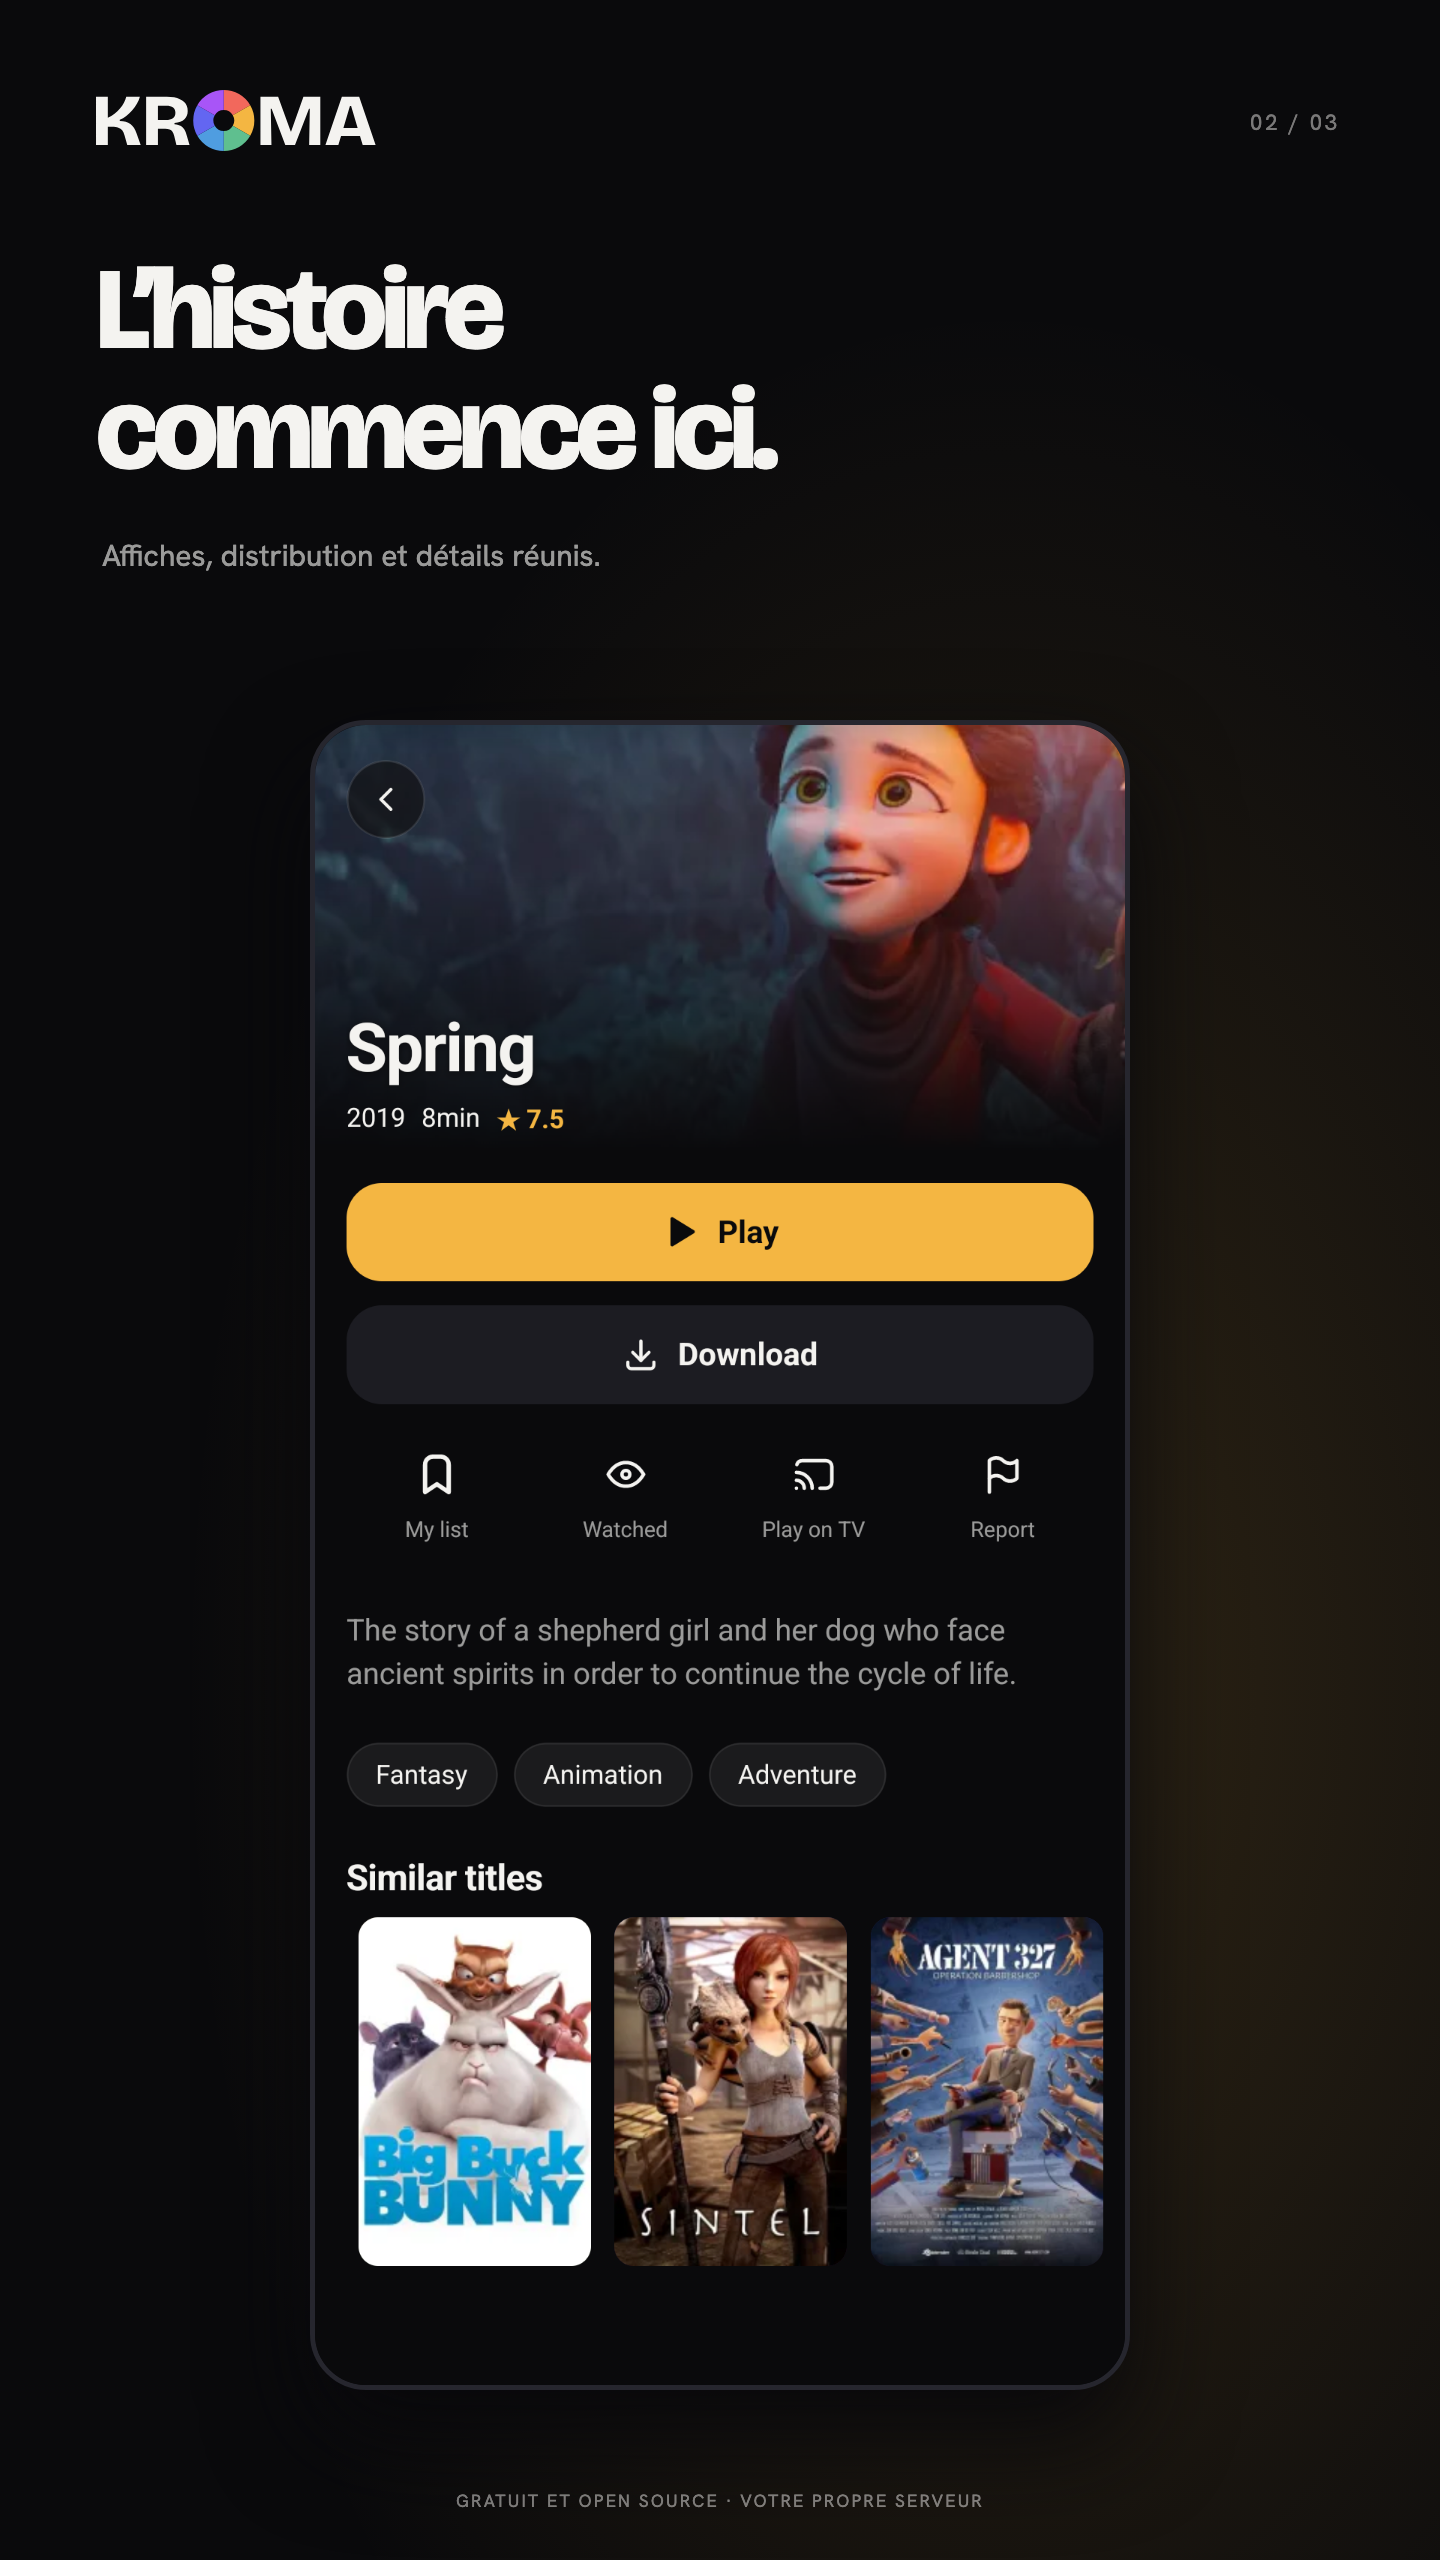
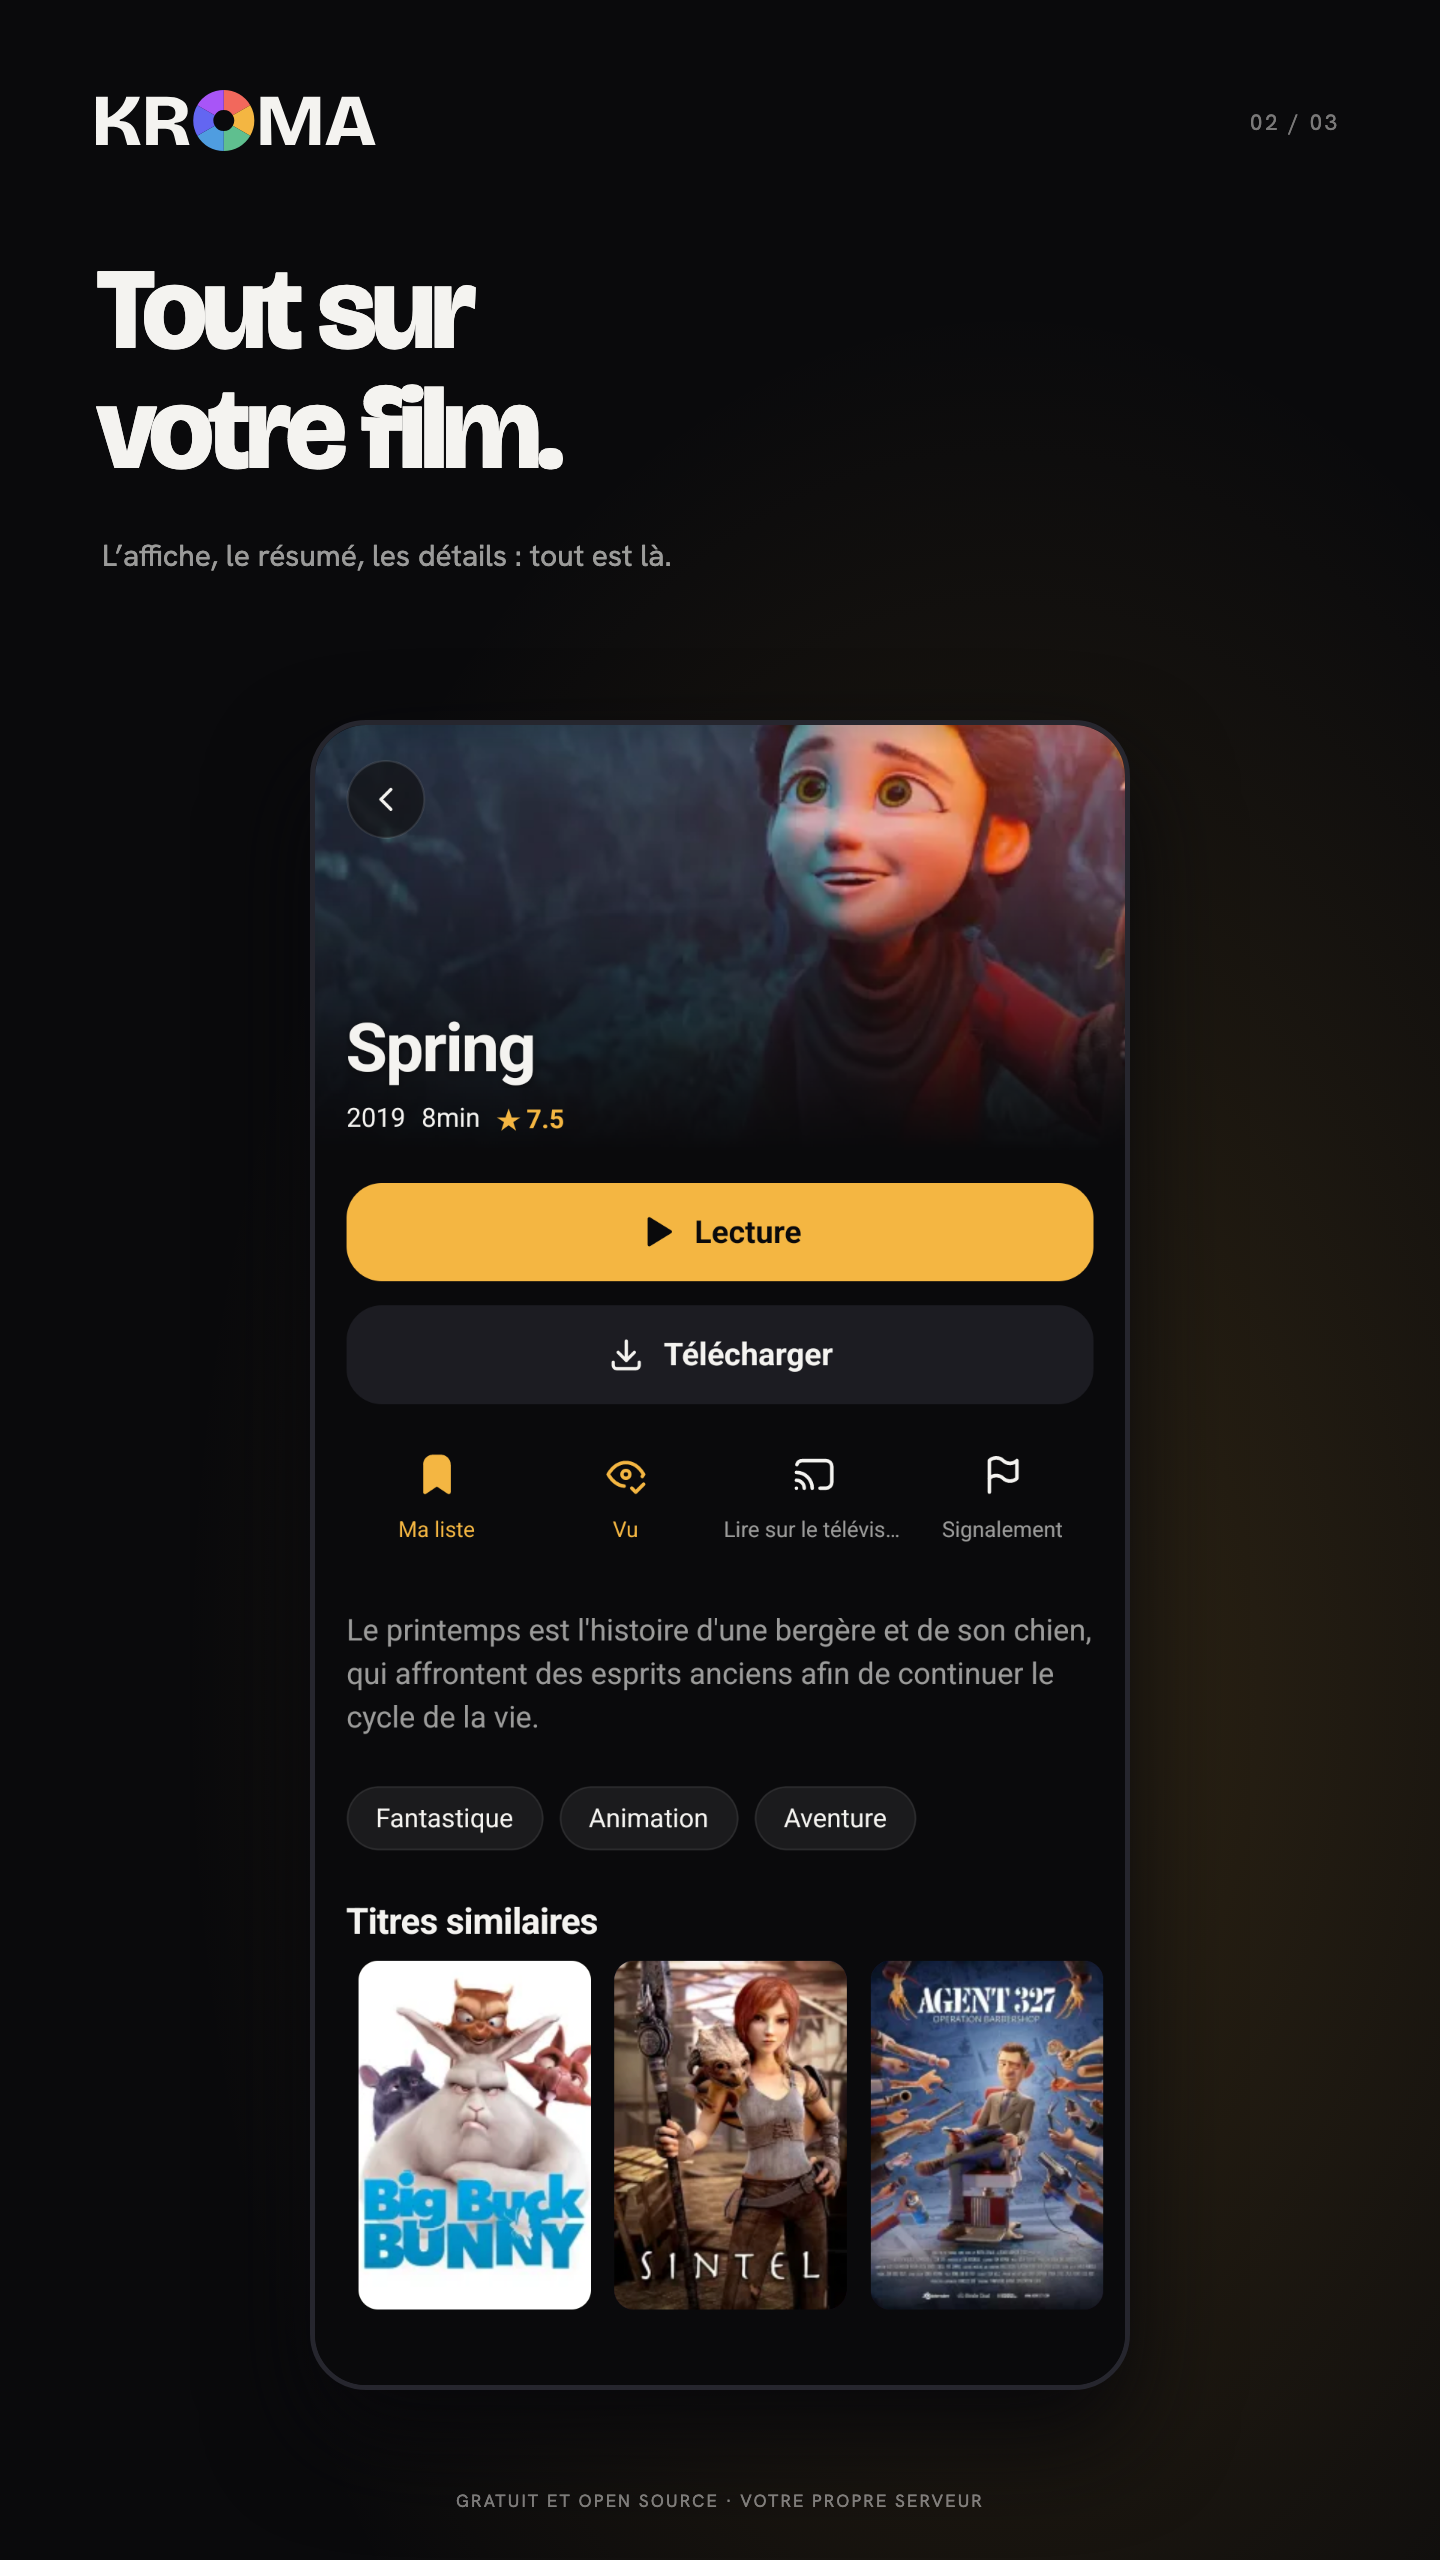
docs(store): write the French Play listing in French
The copy now starts from the intent instead of the English sentences, and the
French phone screenshots show the app in French instead of English captures
with French captions.

diff --git a/clients/tv-build/play-store-art.ts b/clients/tv-build/play-store-art.ts
@@ -5,7 +5,10 @@ import { chromium } from 'playwright';
 
 const repo = resolve(import.meta.dirname, '../..');
 const store = resolve(repo, 'store/google-play');
-const raw = resolve(store, 'captures/android-phone');
+const rawCaptures: Record<string, string> = {
+  'en-US': resolve(store, 'captures/android-phone'),
+  'fr-FR': resolve(store, 'captures/android-phone-fr'),
+};
 const metadata = resolve(repo, 'fastlane/metadata/android');
 
 function data(path: string, mime: string) {
@@ -38,15 +41,15 @@ const captions = {
   },
   'fr-FR': {
     feature: 'Votre cinéma.\nSur tous vos écrans.',
-    featureBody: 'Votre bibliothèque, chez vous.',
+    featureBody: 'Toute votre collection, au même endroit.',
     footer: 'GRATUIT ET OPEN SOURCE · VOTRE PROPRE SERVEUR',
     shots: [
-      ['01-movies', 'Votre cinéma.\nDans votre poche.', 'Vos films ont trouvé leur place.'],
-      ['02-detail', 'L’histoire\ncommence ici.', 'Affiches, distribution et détails réunis.'],
+      ['01-movies', 'Votre cinéma.\nPartout avec vous.', 'Tous vos films, rangés et prêts à lancer.'],
+      ['02-detail', 'Tout sur\nvotre film.', 'L’affiche, le résumé, les détails : tout est là.'],
       [
         '03-home',
         'On regarde\nquoi ce soir ?',
-        'Votre liste et vos derniers ajouts dès l’accueil.',
+        'Votre liste et vos derniers ajouts, dès l’accueil.',
       ],
     ],
   },
@@ -111,7 +114,7 @@ for (const [locale, copy] of Object.entries(captions)) {
     resolve(images, 'tvBanner.png'),
   );
   for (const [name, headline, description] of copy.shots) {
-    const capture = data(resolve(raw, `${name}.png`), 'image/png');
+    const capture = data(resolve(rawCaptures[locale], `${name}.png`), 'image/png');
     await render(
       htmlDocument(
         `<div class="bloom"></div><img class="brand" src="${lockup}"><span class="index">${name.slice(0, 2)} / 03</span><h1>${escape(headline)}</h1><p class="description">${escape(description)}</p><div class="phone"><img src="${capture}"></div><p class="footer">${escape(copy.footer)}</p>`,

diff --git a/store/google-play/README.md b/store/google-play/README.md
@@ -16,7 +16,7 @@ The listing copy and uploadable PNGs use the Fastlane metadata layout under
 
 The three screenshots tell a sequence: movie collection, movie details,
 and the home screen. French exports have French marketing
-captions and the same English app captures. The metadata explains that KROMA
+captions and the app itself in French, from `captures/android-phone-fr`. The metadata explains that KROMA
 requires a compatible server and the user's own media.
 
 ## Rebuild
